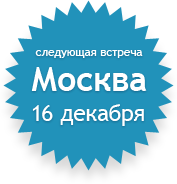
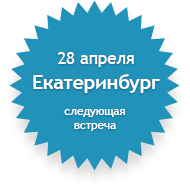
Проставлены ссылки, добавлен бейдж на главную

diff --git a/index.htm b/index.htm
@@ -18,6 +18,7 @@
 			<h1>Web Standards Days</h1>
 		</header>
 		<section id="main" role="main" class="content content-primary">
+			<p id="next"><a href="/2012/04/28/">Следующая встреча: Екатеринбург, 28 апреля</a></p>
 			<nav id="navigation">
 				<ul>
 					<li><a href="#calendar">Календарь событий</a></li>
@@ -51,7 +52,7 @@
 						<td>апрель</td>
 						<td>28</td>
 						<td>
-							Екатеринбург
+							<a href="/2012/04/28/">Екатеринбург</a>
 						</td>
 					</tr>
 					<tr class="schedule-caption"><td colspan="3">2011</td></tr>

diff --git a/s/screen.css b/s/screen.css
@@ -40,13 +40,18 @@ A {
 #next {
 	position:absolute;
 	top:146px;
-	left:805px;
-	width:177px;
-	height:184px;
+	left:808px;
+	width:190px;
+	height:191px;
 	overflow:hidden;
 	background:url(../i/next.png) no-repeat;
 	text-indent:-9999px;
 	}
+	#next A {
+		position:absolute;
+		width:100%;
+		height:100%;
+		}
 
 /* Browser War
 ---------------------------------------- */
